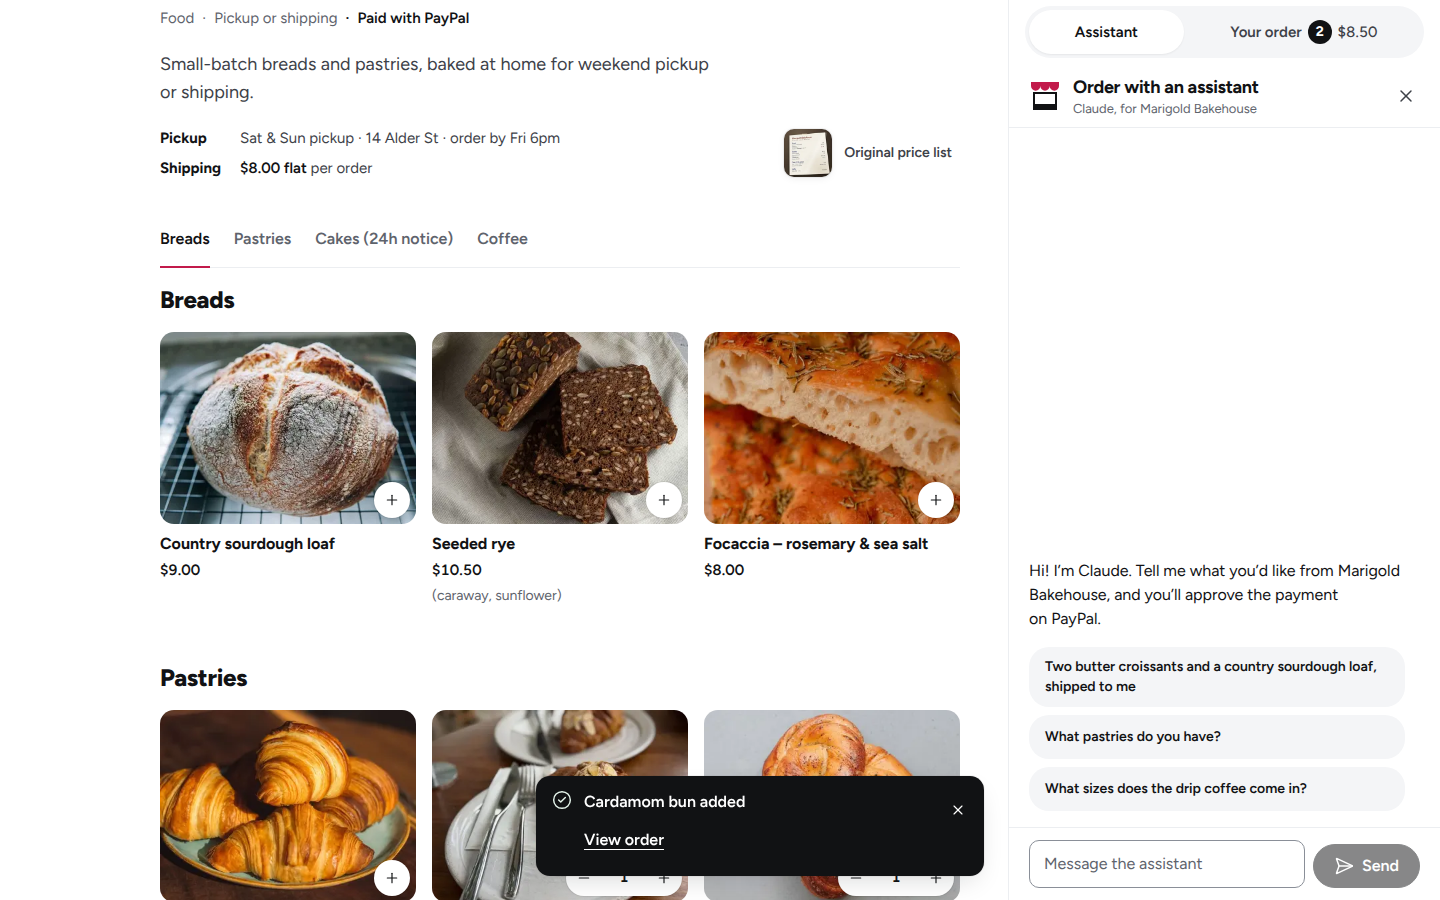
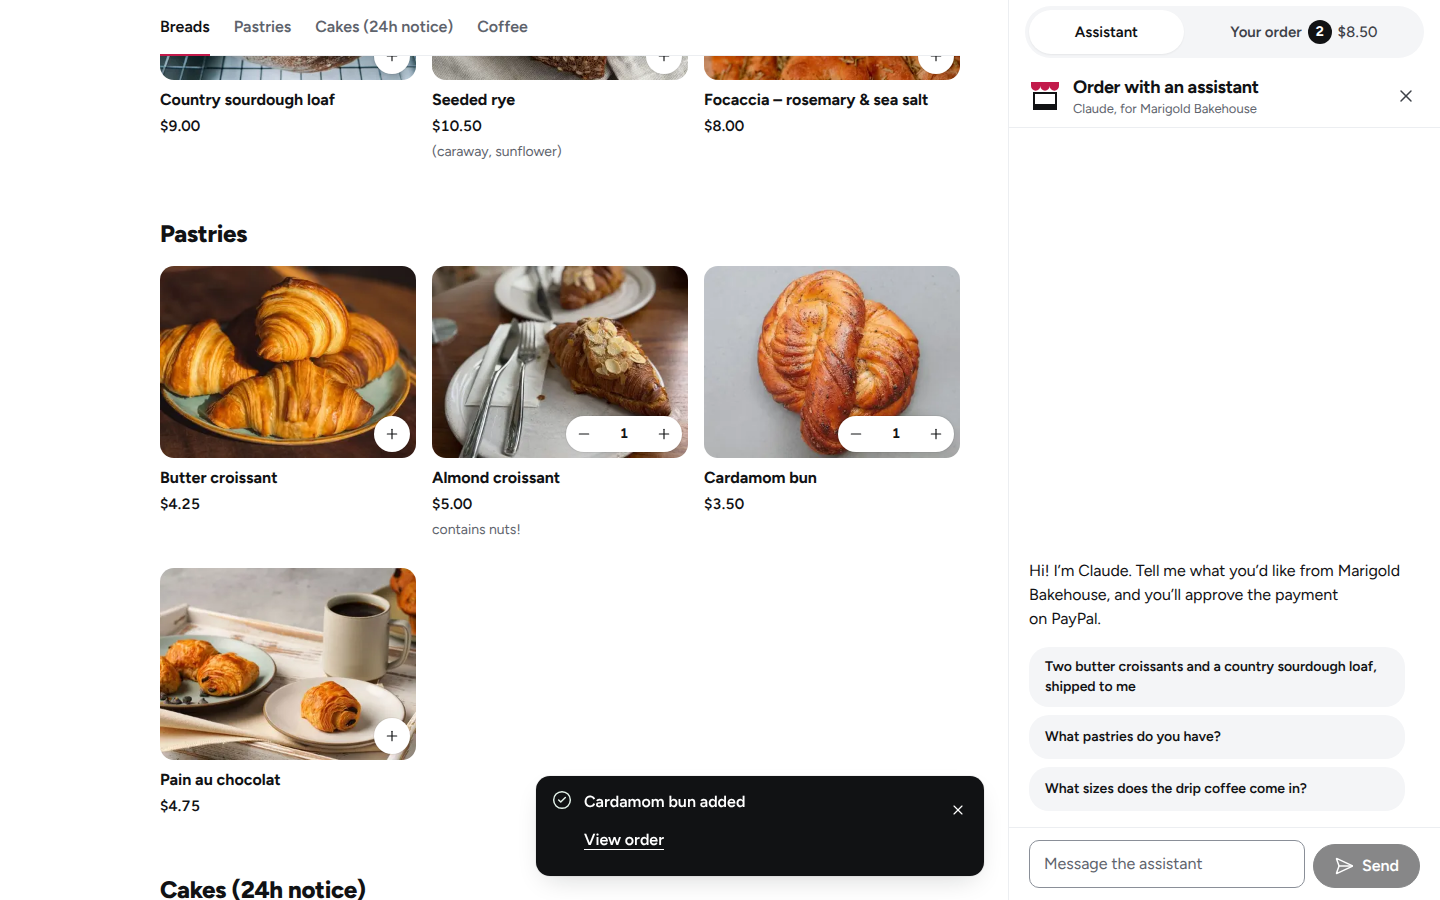
Run 14: CLAUDE.md cart line names the dock switch and add toast; e2e previews

Changed region(s): [[0.0938, 0.2489, 0.6875, 1.0], [0.0938, 0.0, 0.6875, 0.2178]]

diff --git a/CLAUDE.md b/CLAUDE.md
@@ -46,7 +46,7 @@ DATABASE_PATH=data/measure/m.db BASE_URL=http://localhost:3109 npx tsx scripts/m
 - **Design and brand**: photo-first "Storefront" direction (white page, Figtree with `text-rendering: geometricPrecision`, one pomegranate accent `#c21a4b`); tokens in `src/app/globals.css`, system in `docs/DESIGN.md`. Primitives are shadcn-based (`components.json`, new-york) in lowercase files under `src/components/ui` (`@/components/ui/button`); `cn()` is `@/lib/utils` (clsx + tailwind-merge, `cx` is an alias); shadcn's colour names map onto our closed palette in `@theme`. Errors use `error` (vermilion, never the accent); helpful notes (AI brief, allergy) use `note`. Motion: `motion` under `MotionProvider` (root layout: `LazyMotion` strict + `MotionConfig reducedMotion="user"`, so use `m.*`, never `motion.*`); primitives `Reveal`, `Stagger`/`StaggerItem`, `Pressable`, `CountUp`, `StatusSwap` in `src/components/motion`; only transform and opacity animate. An element that starts hidden for an entrance carries `data-entrance` (or a motion `data-slot`) so the motion-off fallback shows it (`tests/ui/motion-off.test.ts`); `Reveal` reads reduced motion through `usePrefersReducedMotion` (reactive; motion's own hook reads it once). The logo ("Awning": a pomegranate scalloped awning over an ink instant print, plus a drawn wordmark; rules in `docs/DESIGN.md` "Logo") is `Logo`/`LogoMark` in `src/components/brand/Logo.tsx` (paths from `logo-paths.ts`, generated with the files in `public/brand/` and `docs/judge/logo/final/` by `node docs/judge/logo/tools-B/build.mjs final`); never set "shelfie" in Figtree as the logo. The favicon `src/app/icon.svg` turns its ink white in dark mode; the Open Graph image is `src/app/opengraph-image.png` (`node scripts/make-og-image.mjs`). **PWA**: `src/app/manifest.ts` + `src/lib/brand/pwa.ts`, icons by `npx tsx scripts/make-icons.ts public/brand/mark.svg '#ffffff'` (white tile, maskable art inside the 80% safe circle), no service worker on purpose; `E2E_PORT=3150 npx playwright test e2e/pwa.spec.ts` checks installability in full Chromium.
 - **Services**: `src/lib/services.ts` is the composition root (db, PayPal client or fake, toolkit, Anthropic).
 - **Seller auth** (`src/lib/auth`): accounts with email and password (scrypt `password.ts`, 15 to 128 characters `password-policy.ts`), 30-day server-side sessions (`session.ts`, the cookie is a random token and the DB holds its SHA-256) and a one-time recovery key (`recovery.ts`, no email provider). `owner.ts` decides ownership: an account's shop answers only to that account's session; an unattached shop (seed, harness) to its per-shop httpOnly owner cookie (hash stored). Guest shops need `SHELFIE_ALLOW_GUEST_SHOPS=1` (`guest.ts`, harness only, ignored when `RENDER` is set, never in production). Deleting a shop or account (`src/lib/catalog/delete-shop.ts`, `/account`, foot of Settings) needs the password, is refused while orders are open, and retires the slug (`retired_slugs`); PayPal's catalog has no delete, so its products stay in the sandbox.
-- **Cart**: a tile opens the item sheet (`shop/ItemSheet.tsx`, `?item=<id>`); `+` adds a single-option item directly. `shop/use-cart-state.ts` stores only `{itemId, optionId, qty}` in `localStorage` (`shelfie:cart:<slug>`, 24 h); client totals are display-only. `POST /api/checkout/[slug]` (same-origin, rate-limited before the body, strict zod refuses any price, totals from `priceOrder`) calls `createOrderForShop` as `STOREFRONT_AGENT_NAME` with a 20-minute approval window; an agent claiming that name is recorded as unnamed. From 1024 px the cart shares the assistant's dock, one panel at a time. The home page's chat (`landing/HomeChat.tsx` frame, `landing/chat/HomeChatPanel.tsx` inside, bot drawing `landing/BotMark.tsx`) is the same buyer console (`useBuyerConsole`, its own look: cover-photo header, item cards from the turn's `list_products` results via `chat/order.ts`, the placed order pinned above the composer) taking orders for Marigold Bakehouse, rendered by `src/app/page.tsx` only while `marigold-bakehouse` is live and takes orders: a tall panel (440 px, viewport less 96 px) in the launcher's corner from 1024 px that opens itself after 4 s once per session (sessionStorage), a 90% bottom sheet with a greeting bubble below; `?chat=0`/`?chat=1` force its auto-open off/on, and it starts off under `SHELFIE_TEST`.
+- **Cart**: a tile opens the item sheet (`shop/ItemSheet.tsx`, `?item=<id>`); `+` adds a single-option item directly. `shop/use-cart-state.ts` stores only `{itemId, optionId, qty}` in `localStorage` (`shelfie:cart:<slug>`, 24 h); client totals are display-only. `POST /api/checkout/[slug]` (same-origin, rate-limited before the body, strict zod refuses any price, totals from `priceOrder`) calls `createOrderForShop` as `STOREFRONT_AGENT_NAME` with a 20-minute approval window; an agent claiming that name is recorded as unnamed. From 1024 px the cart shares the assistant's dock, one panel at a time, switched by `DockSwitch` (`Assistant` / `Your order {n} {total}` tabs, also atop both phone sheets); every add shows one keyed toast `{Item} added` with `View order` (`e2e/cart-dock.spec.ts`). The home page's chat (`landing/HomeChat.tsx` frame, `landing/chat/HomeChatPanel.tsx` inside, bot drawing `landing/BotMark.tsx`) is the same buyer console (`useBuyerConsole`, its own look: cover-photo header, item cards from the turn's `list_products` results via `chat/order.ts`, the placed order pinned above the composer) taking orders for Marigold Bakehouse, rendered by `src/app/page.tsx` only while `marigold-bakehouse` is live and takes orders: a tall panel (440 px, viewport less 96 px) in the launcher's corner from 1024 px that opens itself after 4 s once per session (sessionStorage), a 90% bottom sheet with a greeting bubble below; `?chat=0`/`?chat=1` force its auto-open off/on, and it starts off under `SHELFIE_TEST`.
 - **Sound** (`src/lib/feedback`): oscillators only, no audio files, no `AudioContext` before the first gesture. `Tactile` plays `tick` on every press; `feedback('add')` and the dashboard's `order` chime are the others. One per-device switch for sound and vibration (`shelfie:feedback:v1`): `SoundToggle` in the footer, `Sound and vibration` in Settings.
 - **Tests** live in `tests/` (unit), `tests/sandbox` and `tests/ai-live` (network), `e2e/` (Playwright).
 
